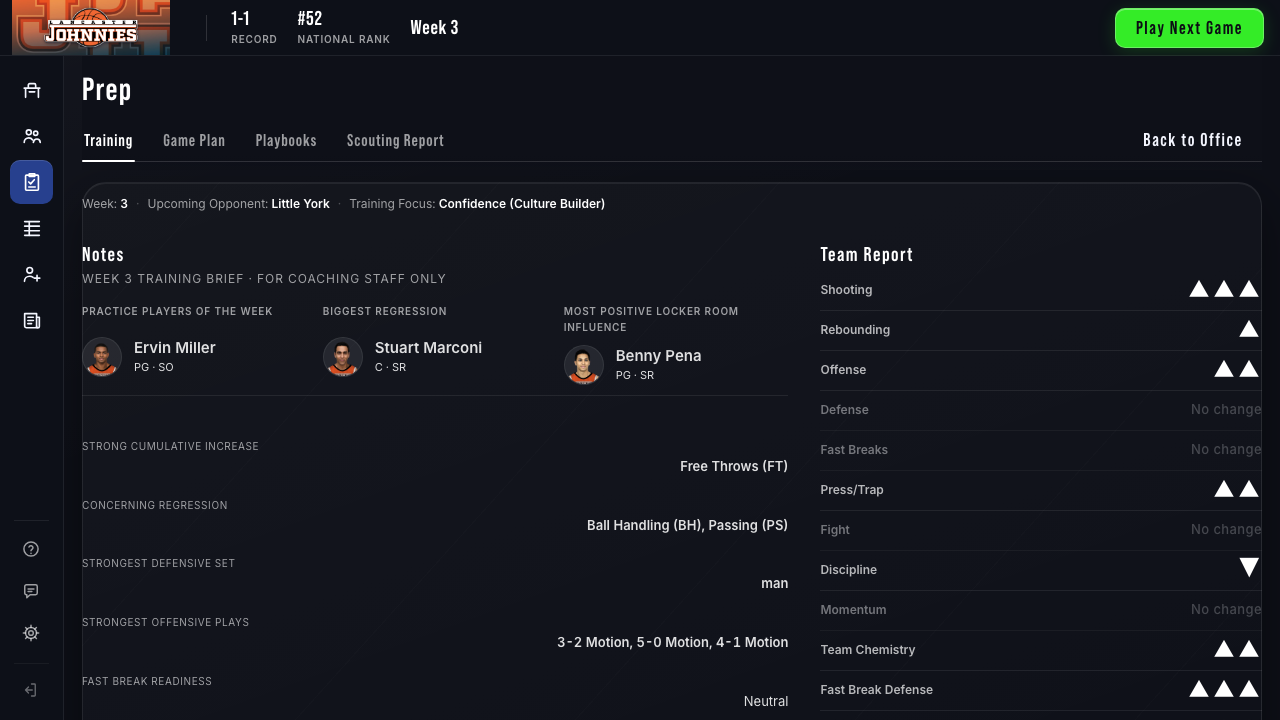
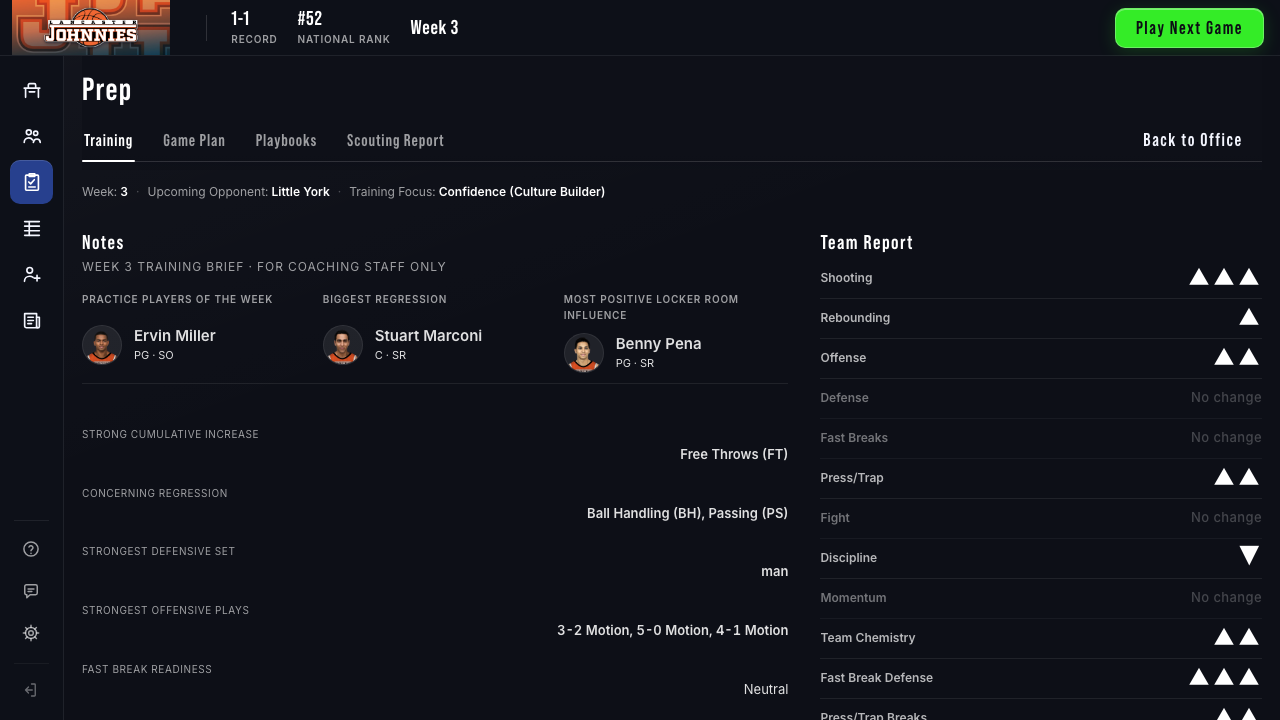
Clear the leftover pill and card outline on the Training tools and report.

diff --git a/FrontEnd/static/training.css b/FrontEnd/static/training.css
@@ -2104,6 +2104,13 @@ body.training-page .slider-container .slider:focus-visible ~ .ps {
 }
 
 /* Prep v2 Training view. Tokens only. Beats #franchise-container .tab-content h3. */
+#franchise-container #training-view.tab-content {
+  padding: 0;
+  border: 0;
+  border-radius: 0;
+  background: transparent;
+  box-shadow: none;
+}
 #training-view .training-header { display: none; }
 #training-view .training-container,
 #training-view .resource-page-container,
@@ -2111,11 +2118,18 @@ body.training-page .slider-container .slider:focus-visible ~ .ps {
 #training-view .training-resource-shell {
   width: 100%;
   max-width: none;
+  margin: 0;
   padding: 0 0 var(--dsp-24);
+  overflow: visible;
   background: transparent;
   box-shadow: none;
   border: 0;
+  border-radius: 0;
   backdrop-filter: none;
+}
+#training-view .resource-page-container.fcc-brand-page-shell::before,
+#training-view .resource-page-container.fcc-brand-page-shell::after {
+  content: none;
 }
 #training-view .main-content-grid {
   display: grid;
@@ -2136,6 +2150,7 @@ body.training-page .slider-container .slider:focus-visible ~ .ps {
   background: transparent;
   box-shadow: none;
   border: 0;
+  border-radius: 0;
   backdrop-filter: none;
 }
 
@@ -2382,13 +2397,19 @@ body.training-page .slider-container .slider:focus-visible ~ .ps {
 }
 #training-view .pdg-name:focus-visible { outline-color: var(--text-100); }
 
+html.gob-shell body.training-page .pg-tools {
+  gap: var(--space-12);
+}
 html.gob-shell body.training-page .pg-tools #requirements-bar,
 html.gob-shell body.training-page .pg-tools .req-pill,
 html.gob-shell body.training-page .pg-tools .bud {
   display: flex;
   align-items: center;
+  flex: none;
+  flex-wrap: nowrap;
   gap: var(--space-10);
   height: var(--dsz-30);
+  max-width: none;
   margin: 0;
   padding: 0;
   background: transparent;
@@ -2396,13 +2417,39 @@ html.gob-shell body.training-page .pg-tools .bud {
   border: 0;
   border-radius: 0;
 }
-html.gob-shell body.training-page .pg-tools .req-pill .points-display {
+html.gob-shell body.training-page .pg-tools .req-pill-seg,
+html.gob-shell body.training-page .pg-tools .req-chip,
+html.gob-shell body.training-page .pg-tools .req-chip--points,
+html.gob-shell body.training-page .pg-tools .req-chip--points.is-complete,
+html.gob-shell body.training-page .pg-tools .req-chip--focus,
+html.gob-shell body.training-page .pg-tools .req-chip--focus.is-selected {
+  display: flex;
+  align-items: center;
+  flex: none;
+  gap: var(--space-10);
+  min-width: 0;
+  min-height: 0;
+  height: var(--dsz-30);
+  padding: 0;
+  border: 0;
+  border-radius: 0;
+  background: transparent;
+  box-shadow: none;
+}
+html.gob-shell body.training-page .pg-tools .req-pill .points-display,
+html.gob-shell body.training-page .pg-tools .points-display {
   position: static;
   width: auto;
   height: auto;
   overflow: visible;
   clip: auto;
   clip-path: none;
+  margin: 0;
+  font-size: var(--fs-12);
+  font-weight: var(--fw-semibold);
+  font-family: var(--font-body);
+  letter-spacing: 0;
+  color: var(--text-87);
   white-space: nowrap;
 }
 html.gob-shell body.training-page .pg-tools .req-chip-check {
@@ -2410,9 +2457,13 @@ html.gob-shell body.training-page .pg-tools .req-chip-check {
   width: 14px;
   height: 14px;
   flex: none;
+  border: 0;
   border-radius: 50%;
   box-shadow: inset 0 0 0 1.5px var(--white-25);
   background: transparent;
+}
+html.gob-shell body.training-page .pg-tools .req-chip-check::after {
+  content: none;
 }
 html.gob-shell body.training-page .pg-tools .req-chip.is-complete .req-chip-check,
 html.gob-shell body.training-page .pg-tools .req-chip.is-selected .req-chip-check {
@@ -2426,19 +2477,28 @@ html.gob-shell body.training-page .pg-tools .req-chip--focus .req-pill-label {
   letter-spacing: var(--tracking-8);
   text-transform: uppercase;
   color: var(--text-38);
+  white-space: nowrap;
 }
-html.gob-shell body.training-page .pg-tools .req-chip-value {
+html.gob-shell body.training-page .pg-tools .req-chip-value,
+html.gob-shell body.training-page .pg-tools .req-pill .req-chip-value {
   font: var(--fw-bold) var(--fs-24)/var(--lh-1) var(--font-display);
   letter-spacing: var(--tracking-2);
   color: var(--text-100);
+  white-space: nowrap;
+  max-width: none;
+  overflow: visible;
+  text-overflow: clip;
 }
 html.gob-shell body.training-page .pg-tools #req-points-total {
   font-size: var(--fs-17);
   color: var(--text-38);
 }
-html.gob-shell body.training-page .pg-tools .req-meter {
+html.gob-shell body.training-page .pg-tools .req-meter,
+html.gob-shell body.training-page .pg-tools .req-pill .req-meter {
   width: 72px;
   height: 4px;
+  margin: 0;
+  flex: none;
   border-radius: 2px;
   background: var(--white-6);
   overflow: hidden;
@@ -2451,28 +2511,24 @@ html.gob-shell body.training-page .pg-tools .req-meter-fill {
 html.gob-shell body.training-page .pg-tools .req-chip.is-complete .req-meter-fill {
   background: var(--white-90);
 }
-html.gob-shell body.training-page .pg-tools .points-display {
-  font-size: var(--fs-12);
-  font-weight: var(--fw-semibold);
-  color: var(--text-87);
-}
 html.gob-shell body.training-page .pg-tools .req-pill-div {
   width: 1px;
   height: 22px;
+  flex: none;
+  align-self: center;
   background: var(--line-strong);
 }
 html.gob-shell body.training-page .pg-tools #req-focus {
-  display: flex;
-  align-items: center;
   gap: var(--space-8);
-  background: transparent;
-  box-shadow: none;
-  border: 0;
 }
 html.gob-shell body.training-page .pg-tools #req-focus-value {
   font-size: var(--fs-13);
   font-weight: var(--fw-semibold);
+  font-family: var(--font-body);
   color: var(--text-87);
+}
+html.gob-shell body.training-page .pg-tools .req-focus-nudge {
+  display: none;
 }
 html.gob-shell body.training-page .pg-tools #auto-train-btn.gob-btn,
 html.gob-shell body.training-page .pg-tools #auto-train-btn.gob-btn--ghost {

diff --git a/tests/e2e/shell-2.spec.js b/tests/e2e/shell-2.spec.js
@@ -770,6 +770,38 @@ test('game plan tick labels do not overlap at 1280 or 1920', async ({ page }) =>
   await assertNoOverlap();
 });
 
+test('training tab-row tools do not overlap at 1280 or 1920', async ({ page }) => {
+  async function assertNoOverlap() {
+    await page.waitForSelector('html.gob-shell .pg-head .pg-tools #requirements-bar');
+    const overlaps = await page.evaluate(() => {
+      const slot = document.querySelector('html.gob-shell .pg-head .pg-tools');
+      if (!slot) return ['no-slot'];
+      const els = [...slot.querySelectorAll(':scope > *, #requirements-bar > *')].filter((el) => {
+        const r = el.getBoundingClientRect();
+        const cs = getComputedStyle(el);
+        return r.width > 1 && r.height > 1 && cs.display !== 'none' && cs.visibility !== 'hidden';
+      });
+      const hits = [];
+      for (let i = 0; i < els.length; i++) {
+        for (let j = i + 1; j < els.length; j++) {
+          if (els[i].contains(els[j]) || els[j].contains(els[i])) continue;
+          const a = els[i].getBoundingClientRect();
+          const b = els[j].getBoundingClientRect();
+          const overlap = a.left < b.right && b.left < a.right && a.top < b.bottom && b.top < a.bottom;
+          if (overlap) hits.push([els[i].id || els[i].className, els[j].id || els[j].className]);
+        }
+      }
+      return hits;
+    });
+    expect(overlaps).toEqual([]);
+  }
+  await page.setViewportSize({ width: 1280, height: 720 });
+  await openPage(page, 'training.html', cc({ training_completed: false, session_type: 'in-season' }));
+  await assertNoOverlap();
+  await page.setViewportSize({ width: 1920, height: 1080 });
+  await assertNoOverlap();
+});
+
 const OUT2 = path.join(__dirname, '../../reports/shell-2b');
 
 async function chromeRects(page) {

diff --git a/FrontEnd/static/training-report.css b/FrontEnd/static/training-report.css
@@ -1662,6 +1662,14 @@ body.training-report-page .playbook-empty-state {
   border-bottom: 1px solid var(--line);
 }
 
+#franchise-container #training-report-view.tab-content {
+  padding: 0;
+  border: 0;
+  border-radius: 0;
+  background: transparent;
+  box-shadow: none;
+}
+
 /* Prep v2 report view: flat page, quiet notes, no green/red/orange. Tokens only. */
 #training-report-view .training-report-container,
 #training-report-view .resource-page-container,
@@ -1672,12 +1680,20 @@ body.training-report-page .playbook-empty-state {
 #training-report-view .players-section,
 #training-report-view .projected-lineup-section,
 #training-report-view .playbook-summary-section {
+  width: 100%;
+  max-width: none;
+  margin: 0;
+  overflow: visible;
   background: transparent;
   box-shadow: none;
   border: 0;
   border-radius: 0;
   padding: 0;
   backdrop-filter: none;
+}
+#training-report-view .resource-page-container.fcc-brand-page-shell::before,
+#training-report-view .resource-page-container.fcc-brand-page-shell::after {
+  content: none;
 }
 
 #franchise-container #training-report-view h2 {

diff --git a/reports/prep-v2-pr2-2026-09-28.md b/reports/prep-v2-pr2-2026-09-28.md
@@ -104,3 +104,7 @@ Opened each shot next to `frames/prep-training-1280.html`, `prep-training-high-l
 Targeted training / report / game-plan / shell specs: 42 passed, 2.8m. Full suite after `ps` showed no other Playwright: 539 passed, 2 skipped, 7.9m, port 8088, workers=1, `CI` unset. Servers on 8088 and 8091 stopped. Suite-regenerated images outside `reports/prep-v2-pr2/` restored.
 
 STATUS: COMPLETE
+
+Tab-row tools are an inline group (points · meter · N left | focus · Auto-Train · Tutorial) with no pill and no overlaps at 1280 or 1920. The legacy card outline is off on #training-view and #training-report-view.
+
+STATUS: COMPLETE
